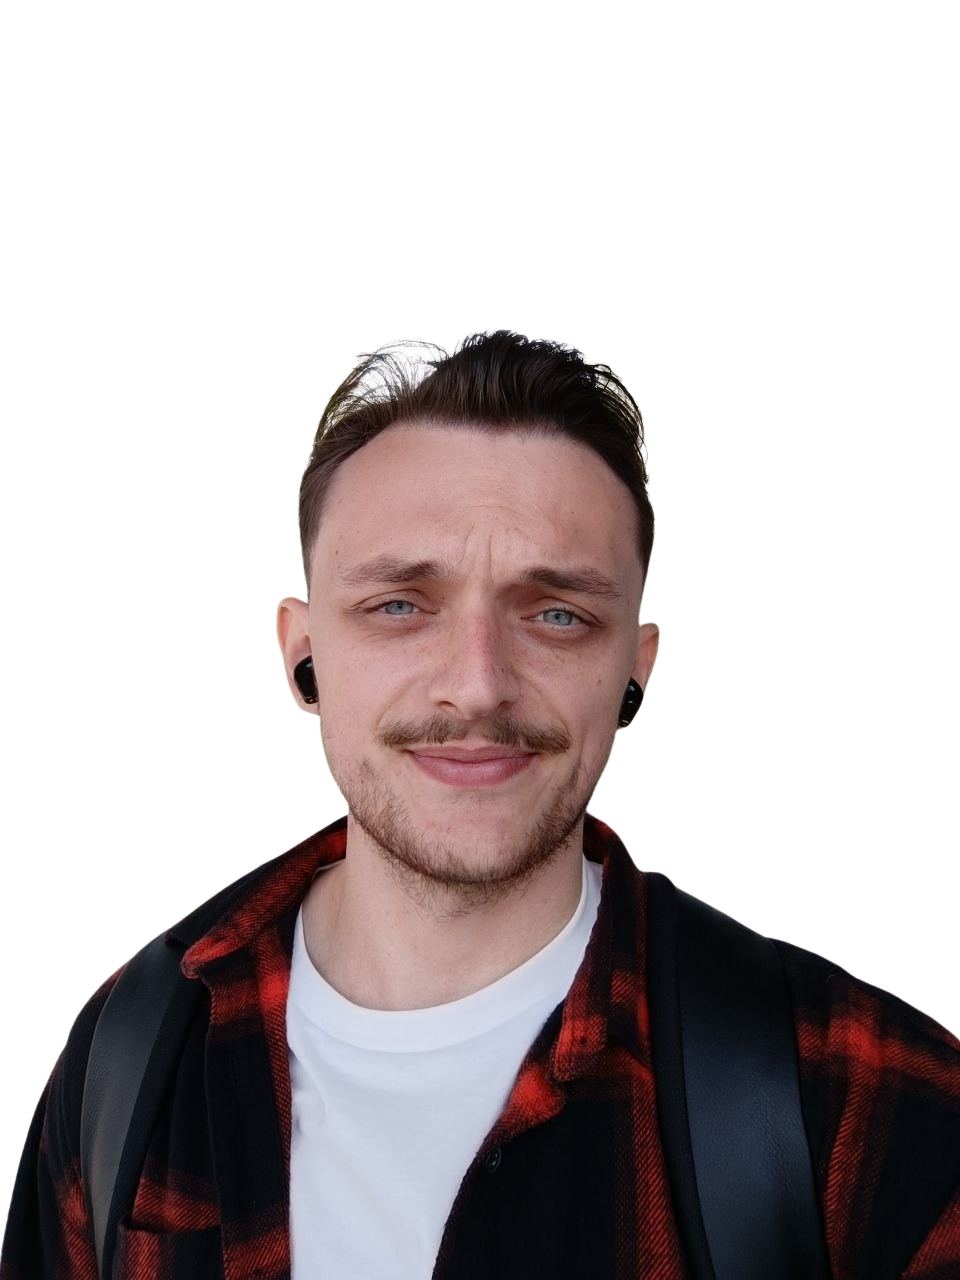
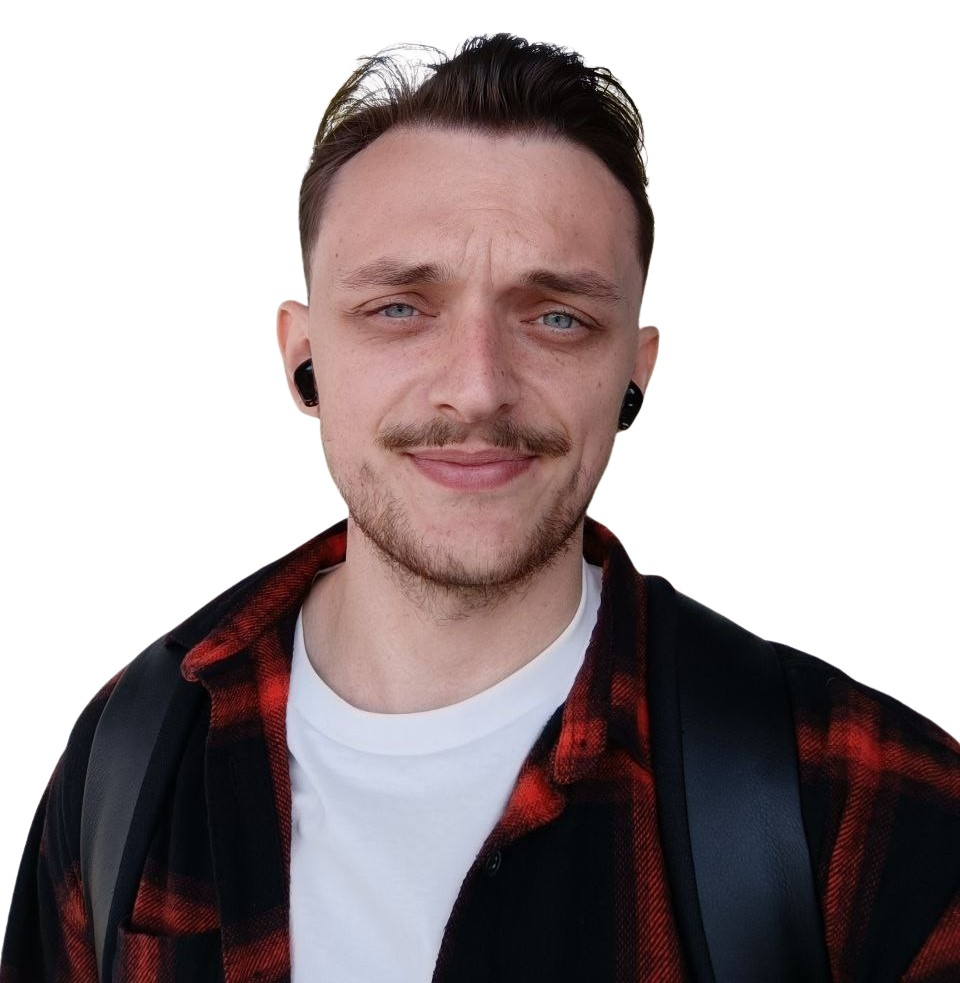
implemented hero section of main page

diff --git a/src/app/components/pages/Main/sections/Hero/styles.module.scss b/src/app/components/pages/Main/sections/Hero/styles.module.scss
@@ -1,9 +1,135 @@
+@import "styles-variables";
+
 .hero {
   display: flex;
   justify-content: space-between;
+  align-items: center;
   margin-top: 60px;
 
   &-title {
-    font-size: 2.5rem;
+    font-size: clamp(1.5rem, 4.5vw, 2.5rem);
+    margin-bottom: 7px;
+  }
+
+  &-sub-title {
+    max-width: 560px;
+  }
+
+  &-content {
+    display: flex;
+    flex-direction: column;
+    gap: 30px;
+    margin-right: 75px;
+  }
+
+  &-img-wrapper {
+    display: flex;
+    position: relative;
+    margin-right: 20px;
+    width: clamp(200px, 100%, 470px);
+    
+    img {
+      background-color: white;
+      z-index: 5;
+      width: clamp(200px, 100%, 470px);
+      height: clamp(200px, 100%, 470px);
+    }
+
+    .border {
+      z-index: 4;
+      position: absolute;
+      top: -20px;
+      left: 25px;
+      height: 100%;
+      width: 100%;
+      border: 4px solid var(--hero-photo-outline-second-border--color);
+    }
+
+    &:before {
+      z-index: 6;
+      content: "";
+      position: absolute;
+      top: 0;
+      left: -2px;
+      height: 100%;
+      width: calc(100% + 6px);
+      border: 4px solid var(--hero-photo-outline-main-border--color);
+    }
+
+    &:after {
+      content: "";
+      position: absolute;
+      top: 20px;
+      left: -25px;
+      height: 100%;
+      width: 100%;
+      border: 4px solid var(--hero-photo-outline-second-border--color);
+      z-index: 4;
+    }
+  }
+}
+
+.location {
+  display: flex;
+  gap: 10px;
+  margin-bottom: 7px;
+}
+
+.online-now {
+  padding-left: 25px;
+  position: relative;
+
+  &::before {
+    content: "";
+    position: absolute;
+    top: 50%;
+    left: 0;
+    transform: translateY(-50%) translateX(60%);
+    width: 7px;
+    height: 7px;
+    border-radius: 50%;
+    background-color: $lime-green;
+  }
+}
+
+.contact-me {
+  border: 2px solid var(--hero-contact-me-btn--color);
+  background-color: transparent;
+  border-radius: $buttons-main-border-radius;
+  padding: 6px 12px;
+}
+
+.hero-img-wrapper--mobile {
+  display: none;
+  margin-left: 20px;
+}
+
+@media screen and (max-width: 660px) {
+  .hero {
+    margin-top: 30px;
+    flex-direction: column-reverse;
+
+    &-content {
+      margin-right: 0;
+      margin-top: 30px;
+    }
+  }
+
+  .hero-img-wrapper {
+    display: none;
+
+    &--mobile {
+      display: block;
+    }
+
+    &:before {
+      top: -3px;
+      left: 0;
+    }
+
+    &:after {
+      top: 7px;
+      left: -10px;
+    }
   }
 }

diff --git a/src/app/components/pages/Main/sections/Hero/index.tsx b/src/app/components/pages/Main/sections/Hero/index.tsx
@@ -1,29 +1,46 @@
+import classNames from "classnames";
 import styles from "./styles.module.scss";
-import Image from 'next/image'
+import Image, { getImageProps } from 'next/image'
+import LocationIcon from "../../../../../../../public/icons/location.svg";
 
 const Hero = () => {
   return (
-    <section className={styles["hero"]}>
+    <section className={classNames(styles["hero"], 'hero')}>
       <div className={styles["hero-content"]}>
         <div className={styles["hero-text-wrapper"]}>
-          <h2 className={styles["hero-title"]}>Hello i am danya</h2>
-          <p className={styles["hero-sub-title"]}>I am super duper developer</p>
+          <h2 className={styles["hero-title"]}>Hi, I`m Danylo,😎</h2>
+          <p className={styles["hero-sub-title"]}>Lorem ipsume Lorem ipsume Lorem ipsume Lorem ipsume Lorem ipsume Lorem ipsume Lorem ipsume Lorem ipsume Lorem ipsume Lorem ipsume</p>
         </div>
         <div>
-          <span><span>icon</span><span>Kremenchug, Ukraine</span></span>
-          <span>Online now</span>
+          <span className={styles["location"]}>
+            <span className={styles['location-icon']}>
+              <LocationIcon />
+            </span>
+            <span>Kremenchug, Ukraine</span>
+          </span>
+          <span className={styles['online-now']}>Online now</span>
         </div>
         <div>
-          <button>Socials or Contact me modal</button>
+          <button className={styles['contact-me']}>Contact Me</button>
         </div>
       </div>
-      <div>
+      <div className={styles["hero-img-wrapper"]}>
         <Image
           src="/images/hero-photo.jpg"
+          width={470}
+          height={470}
+          alt="Picture of the author"
+          style={{ objectFit: "contain" }}
+        />
+        <div className={styles["border"]}></div>
+      </div>
+      <div className={classNames(styles["hero-img-wrapper"], styles["hero-img-wrapper--mobile"])}>
+        <Image
+          src="/images/hero-photo--mobile.png"
           width={300}
           height={300}
           alt="Picture of the author"
-          style={{objectFit: "contain"}}
+          style={{ objectFit: "contain" }}
         />
       </div>
     </section>

diff --git a/src/app/styles/themes/light.scss b/src/app/styles/themes/light.scss
@@ -12,4 +12,11 @@
   .sidebar {
     --sidebar-text-color: #{$lavender-mist};
   }
+
+  .hero {
+    --hero-photo-outline-main-border--color: #{$twilight-navy};
+    --hero-photo-outline-second-border--color: #{$gainsboro-gray};
+
+    --hero-contact-me-btn--color: #{$twilight-navy};
+  }
 }

diff --git a/src/app/layouts/Header/components/CvBtn/styles.module.scss b/src/app/layouts/Header/components/CvBtn/styles.module.scss
@@ -1,8 +1,10 @@
+@import "styles-variables";
+
 .download-cv {
   background-color: var(--download-cv--bg-color);
   color: var(--download-cv--text-color);
   border: none;
   padding: 7px 10px;
-  border-radius: 4px;
+  border-radius: $buttons-main-border-radius;
 }
 

diff --git a/src/app/styles/_variables.scss b/src/app/styles/_variables.scss
@@ -1,3 +1,8 @@
 // Colors
 $twilight-navy: #101727; // main dark color
 $lavender-mist: #fbf7fb; // main light color
+$lime-green: #32CD32; // main light color
+$gainsboro-gray: #708090; // main light color
+
+//
+$buttons-main-border-radius: 4px;

diff --git a/src/app/styles/globals.scss b/src/app/styles/globals.scss
@@ -2,4 +2,9 @@
 
 * {
   font-family: var(--font-geist-mono), sans-serif;
+  box-sizing: border-box;
+
+  &:before, &::after {
+    box-sizing: border-box;
+  }
 }

diff --git a/src/app/layouts/Header/header.module.scss b/src/app/layouts/Header/header.module.scss
@@ -6,6 +6,7 @@
   position: sticky;
   top: 0;
   background-color: var(--header-bg-color);
+  z-index: 100;
 
   &-container {
     display: flex;
